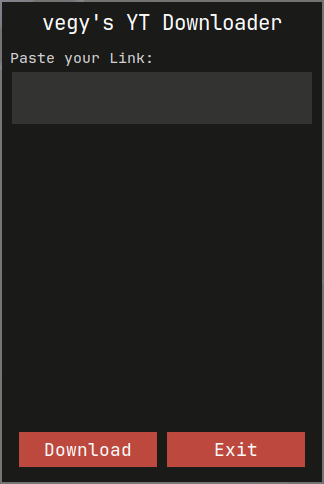
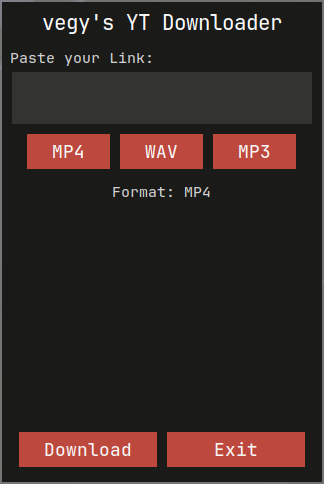
+ Updated Screenshot + Updated README

Changed region(s): [[0.3395, 0.2789, 0.9259, 0.4339], [0.0617, 0.2789, 0.3395, 0.3719]]

diff --git a/README.md b/README.md
@@ -13,7 +13,8 @@ My own little Project, a YouTube video downloader written in Python, with a GUI 
 ***NOTE: This is meant to be used for educational purposes only.***
 
 ## TO-DOs
-- [ ] MP3 Download`s
+- [X] .mp3 Download`s
+- [X] .wav Download`s
 
 
 ## Screenshot
